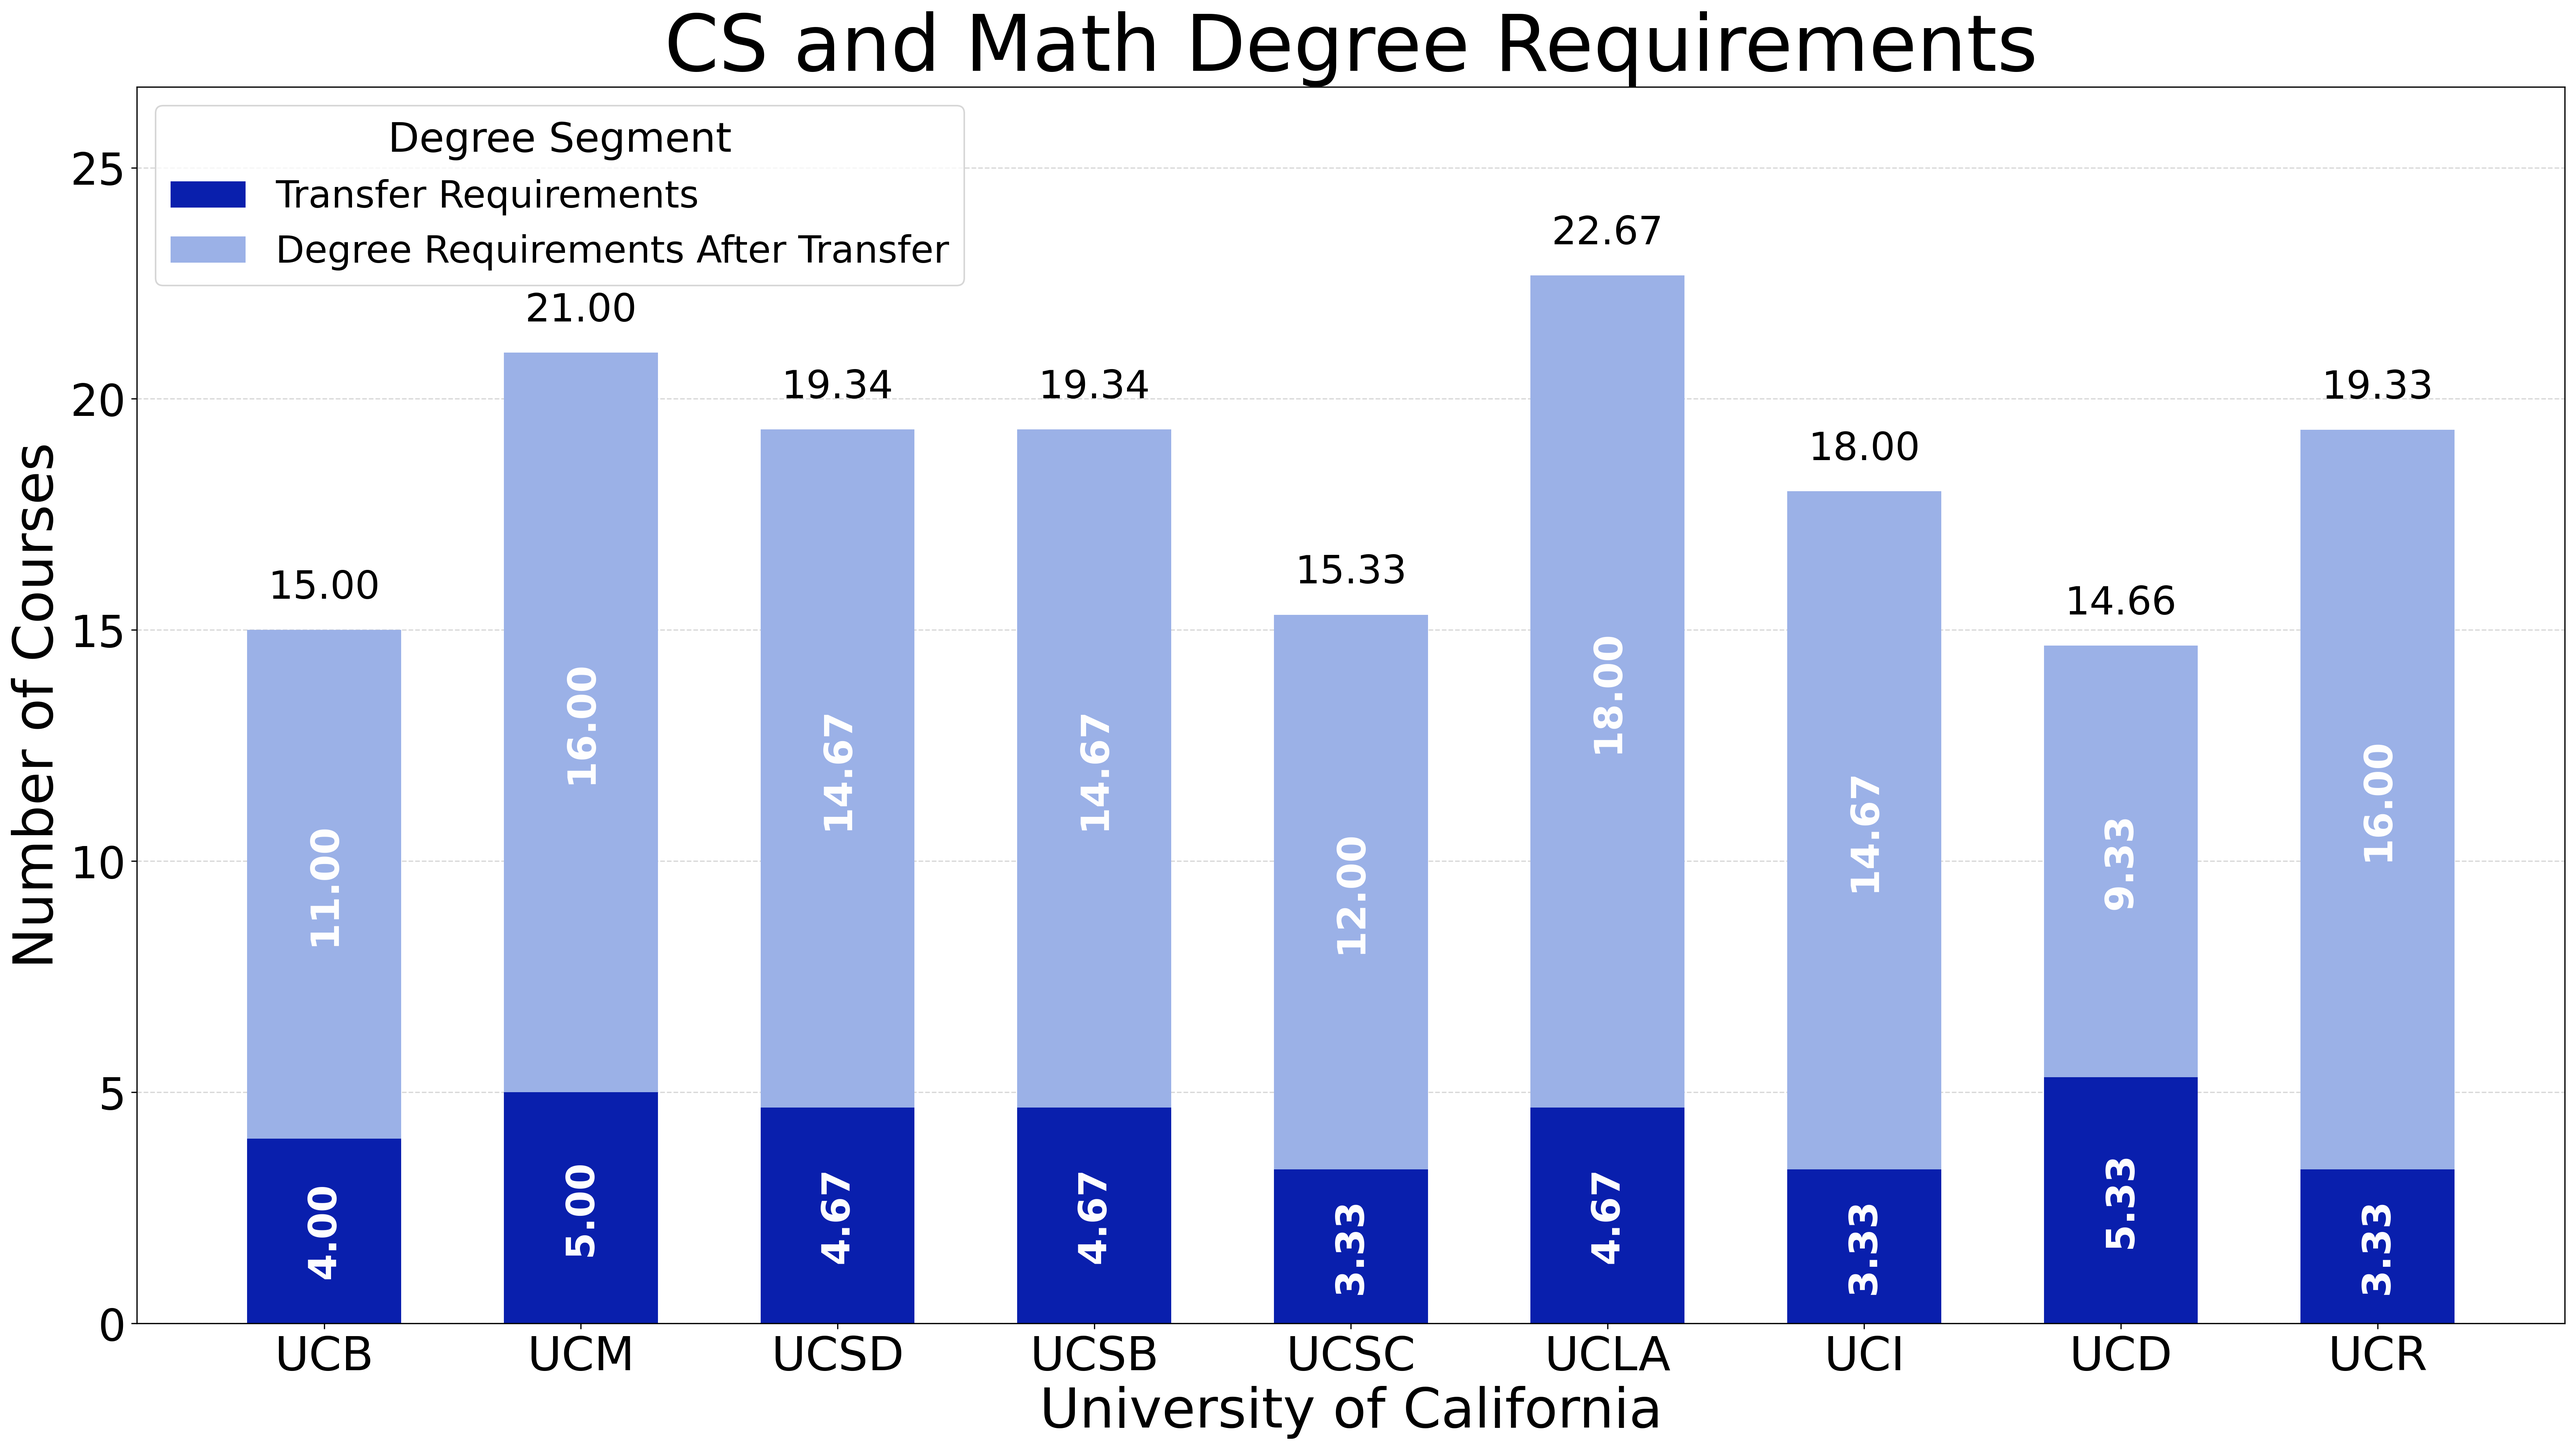
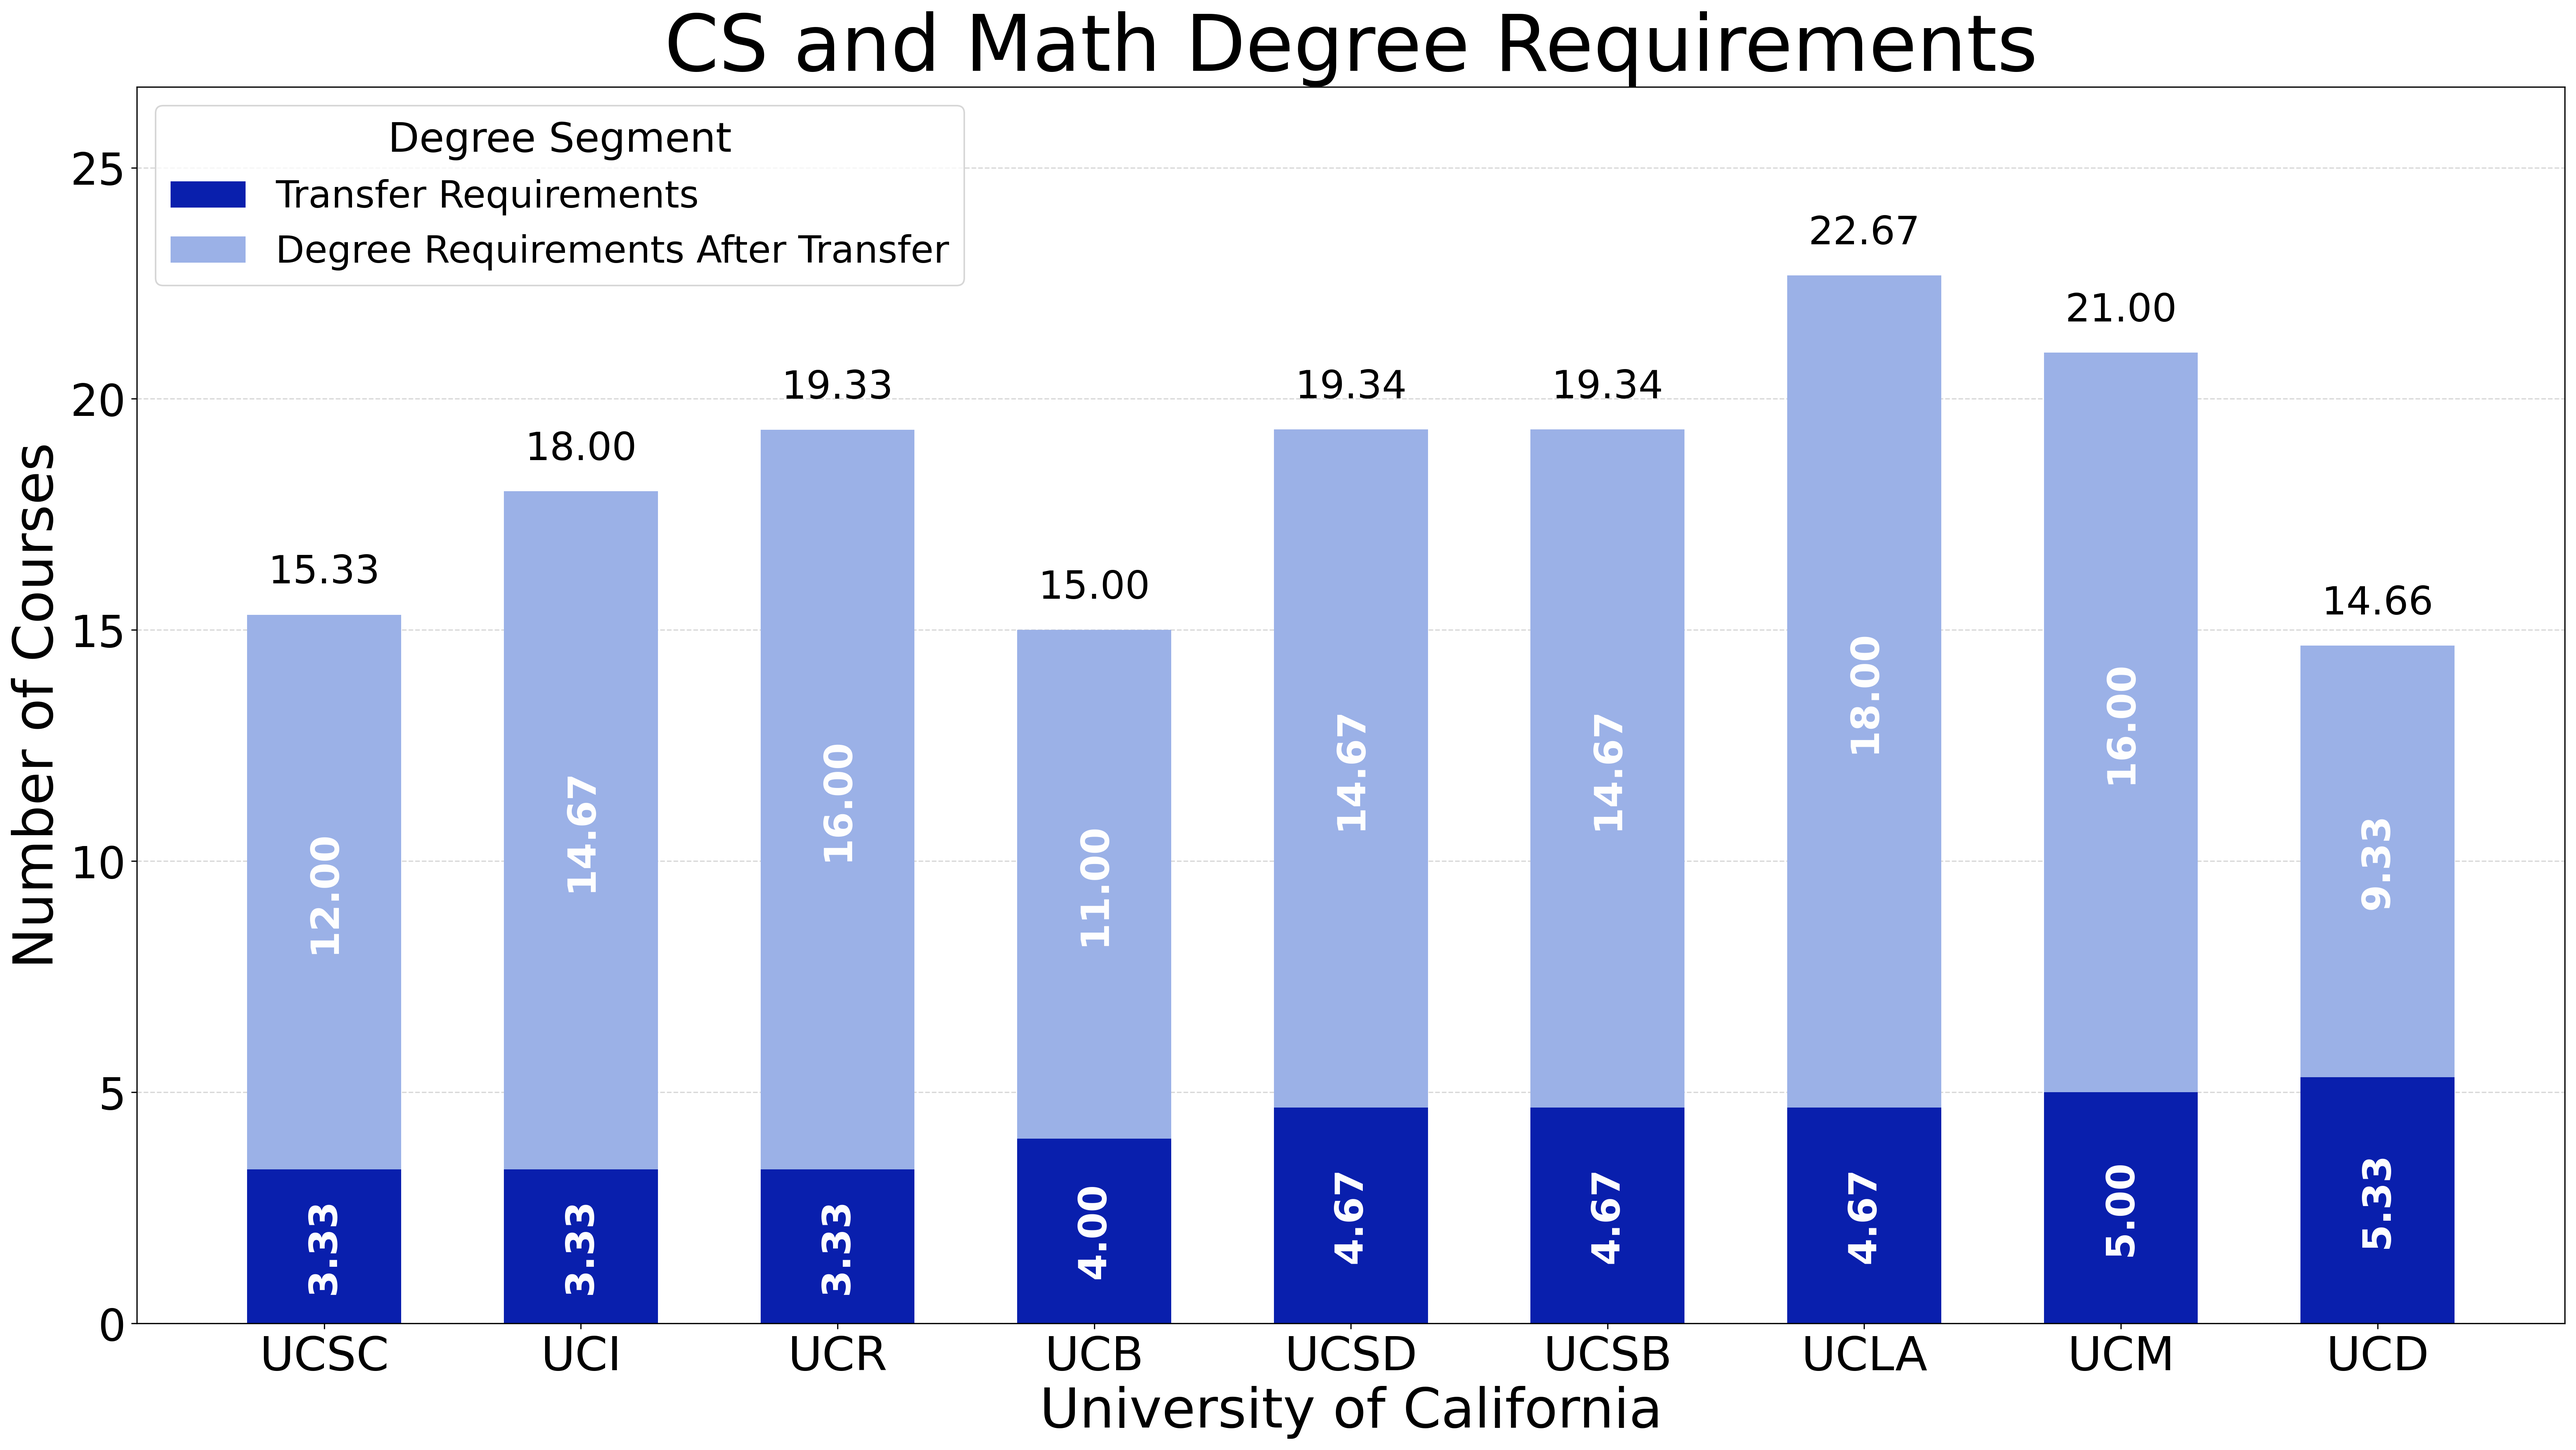
updated graphs based on the new order and masking UC names

diff --git a/question_1/scripts/scripts_for_graphs/grouped_bar_graph.py b/question_1/scripts/scripts_for_graphs/grouped_bar_graph.py
@@ -86,7 +86,7 @@ quarter_only = {uc: quarter_values[uc] - semester_values[uc] for uc in quarter_v
 
 # --- Custom UC order: UCB and UCM first ---
 #uc_labels = ["UCB", "UCM"] + [uc for uc in semester_values if uc not in ("UCB", "UCM")]
-uc_labels = ["UCD", "UCSD", "UCSB", "UCLA", "UCM", "UCSC", "UCB", "UCI", "UCR"]
+uc_labels = ["UCD", "UCM", "UCSD", "UCSB", "UCLA", "UCB", "UCSC", "UCI", "UCR"]
 x = np.arange(len(uc_labels))
 n_orders = len(order_range)
 total_bars = n_orders + 1  # 1 for CS/Math bar
@@ -167,19 +167,19 @@ for i, uc in enumerate(uc_labels):
 ax.set_ylim(0, ymax * 1.18)
 
 # --- Custom UC order: UCB and UCM first ---
-uc_labels = ["UCD", "UCSD", "UCSB", "UCLA", "UCM", "UCSC", "UCB", "UCI", "UCR"]
-
+uc_labels = ["UCD", "UCM", "UCSD", "UCSB", "UCLA", "UCB", "UCSC", "UCI", "UCR"]
 # Mapping for display names
+
 uc_display_names = {
-    "UCD": "UC1",
-    "UCSD": "UC2",
-    "UCSB": "UC3",
-    "UCLA": "UC4",
-    "UCM": "UC5",
-    "UCSC": "UC6",
-    "UCB": "UC7",
-    "UCI": "UC8",
-    "UCR": "UC9"
+    "UCD": "UC1*",
+    "UCM": "UC2",
+    "UCSD": "UC3*",
+    "UCSB": "UC4*",
+    "UCLA": "UC5*",
+    "UCB": "UC6",
+    "UCSC": "UC7*",
+    "UCI": "UC8*",
+    "UCR": "UC9*"
 }
 
 # ... rest of your plotting code ...

diff --git a/question_1/scripts/scripts_for_graphs/time_to_degree_graph.py b/question_1/scripts/scripts_for_graphs/time_to_degree_graph.py
@@ -27,7 +27,19 @@ after_time_to_degree = {
 
 # --- Custom UC order: UCB and UCM first ---
 #uc_labels = ["UCB", "UCM"] + [uc for uc in after_time_to_degree if uc not in ("UCB", "UCM")]
-uc_labels = ["UCSC", "UCI", "UCR", "UCB", "UCSD", "UCSB", "UCLA", "UCM", "UCD"]
+uc_labels = ["UCD", "UCM", "UCSD", "UCSB", "UCLA", "UCB", "UCSC", "UCI", "UCR"]
+uc_display_names = {
+    "UCD": "UC1*",
+    "UCM": "UC2",
+    "UCSD": "UC3*",
+    "UCSB": "UC4*",
+    "UCLA": "UC5*",
+    "UCB": "UC6",
+    "UCSC": "UC7*",
+    "UCI": "UC8*",
+    "UCR": "UC9*"
+}
+
 x = np.arange(len(uc_labels))
 bar_width = 0.6
 
@@ -79,7 +91,7 @@ ax.set_xlabel("University of California", fontsize=35)
 plt.title("CS and Math Degree Requirements", fontsize=50)
 
 ax.set_xticks(x)
-ax.set_xticklabels(uc_labels, fontsize=30)
+ax.set_xticklabels([uc_display_names[uc] for uc in uc_labels], fontsize=30)
 ax.tick_params(axis='y', labelsize=28)
 
 # Custom legend (remove duplicates)
